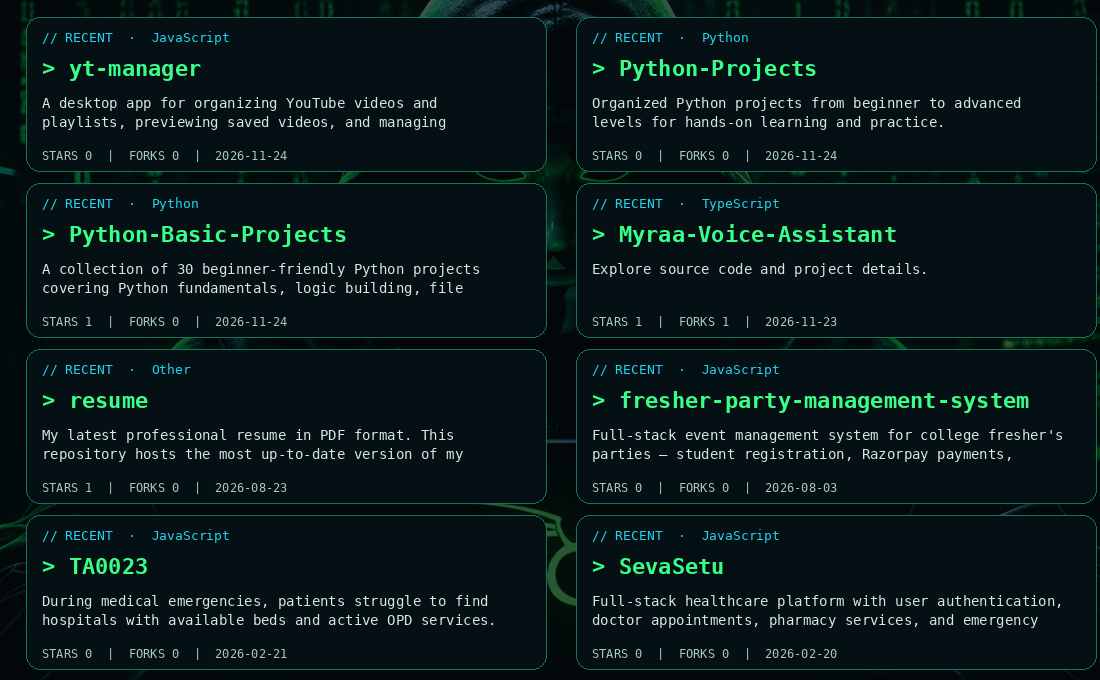
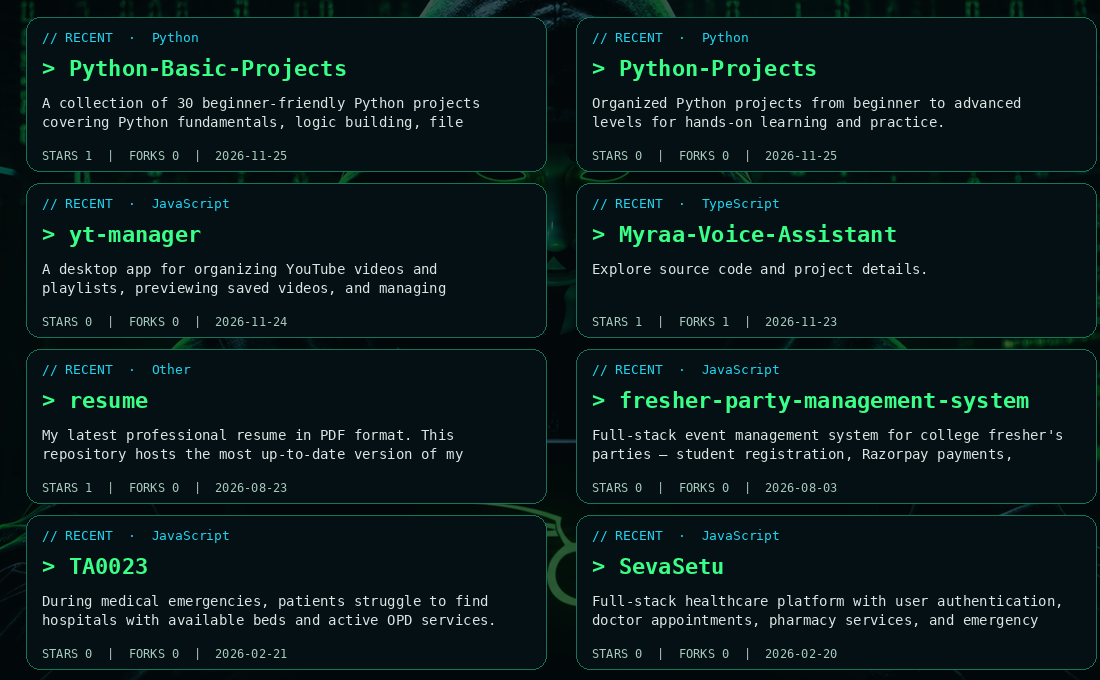
chore: refresh live GitHub dashboard [skip ci]

diff --git a/README.md b/README.md
@@ -50,14 +50,8 @@ I build Python tools and automation scripts, develop practical web applications,
 *Verified public metrics, refreshed automatically by GitHub Actions.*
 
 <!-- STATS:START -->
-![Public projects 11, Project stars 3, Project forks 1, Followers 2. Includes a chart of top primary languages.](assets/github-stats.svg)
+![Public projects 11, Project stars 3, Project forks 1, Followers 3. Includes a chart of top primary languages.](assets/github-stats.svg)
 <!-- STATS:END -->
-
-### `DAILY PUSH STREAK`
-
-![Automatically tracked public push streak in IST](assets/push-streak.svg)
-
-*Based on observed public push days; historical coverage may be incomplete.*
 
 ## `05 // FEATURED PROJECTS`
 
@@ -76,7 +70,7 @@ I build Python tools and automation scripts, develop practical web applications,
 <!-- REPOSITORIES:START -->
 ![Latest repositories with centered hacker background, automatically updated from GitHub](assets/latest-repositories-hacker.png)
 
-[yt-manager](https://github.com/krushnakaale/yt-manager) · [Python-Projects](https://github.com/krushnakaale/Python-Projects) · [Python-Basic-Projects](https://github.com/krushnakaale/Python-Basic-Projects) · [Myraa-Voice-Assistant](https://github.com/krushnakaale/Myraa-Voice-Assistant) · [resume](https://github.com/krushnakaale/resume) · [fresher-party-management-system](https://github.com/krushnakaale/fresher-party-management-system) · [TA0023](https://github.com/krushnakaale/TA0023) · [SevaSetu](https://github.com/krushnakaale/SevaSetu)
+[Python-Basic-Projects](https://github.com/krushnakaale/Python-Basic-Projects) · [Python-Projects](https://github.com/krushnakaale/Python-Projects) · [yt-manager](https://github.com/krushnakaale/yt-manager) · [Myraa-Voice-Assistant](https://github.com/krushnakaale/Myraa-Voice-Assistant) · [resume](https://github.com/krushnakaale/resume) · [fresher-party-management-system](https://github.com/krushnakaale/fresher-party-management-system) · [TA0023](https://github.com/krushnakaale/TA0023) · [SevaSetu](https://github.com/krushnakaale/SevaSetu)
 
 [View all repositories ↗](https://github.com/krushnakaale?tab=repositories)
 <!-- REPOSITORIES:END -->
